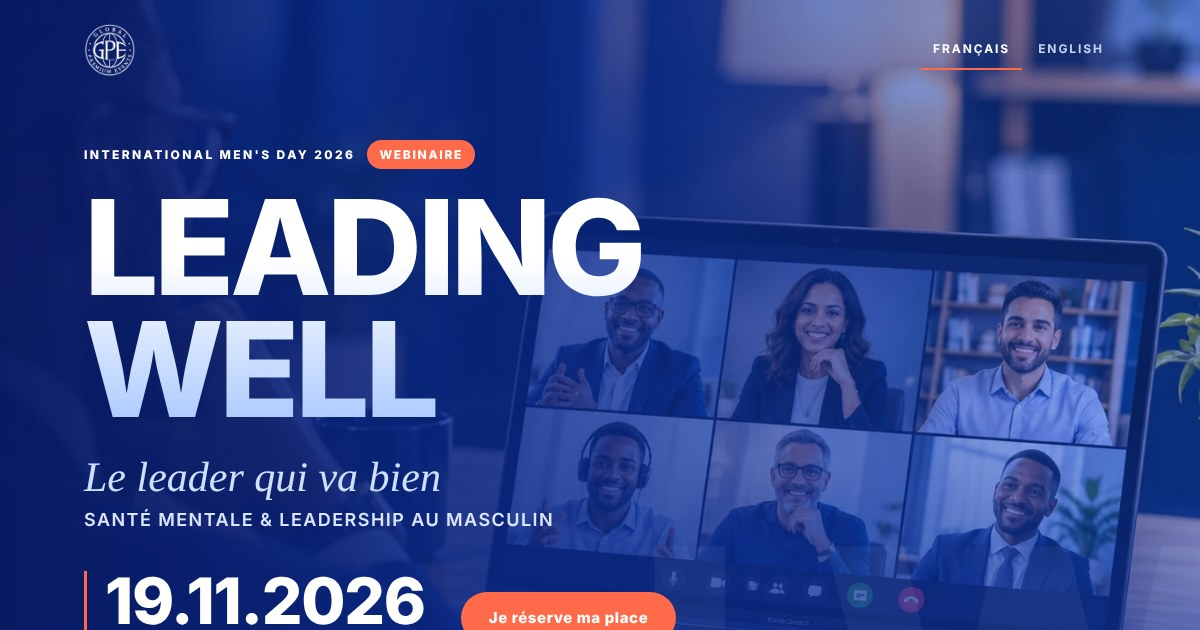
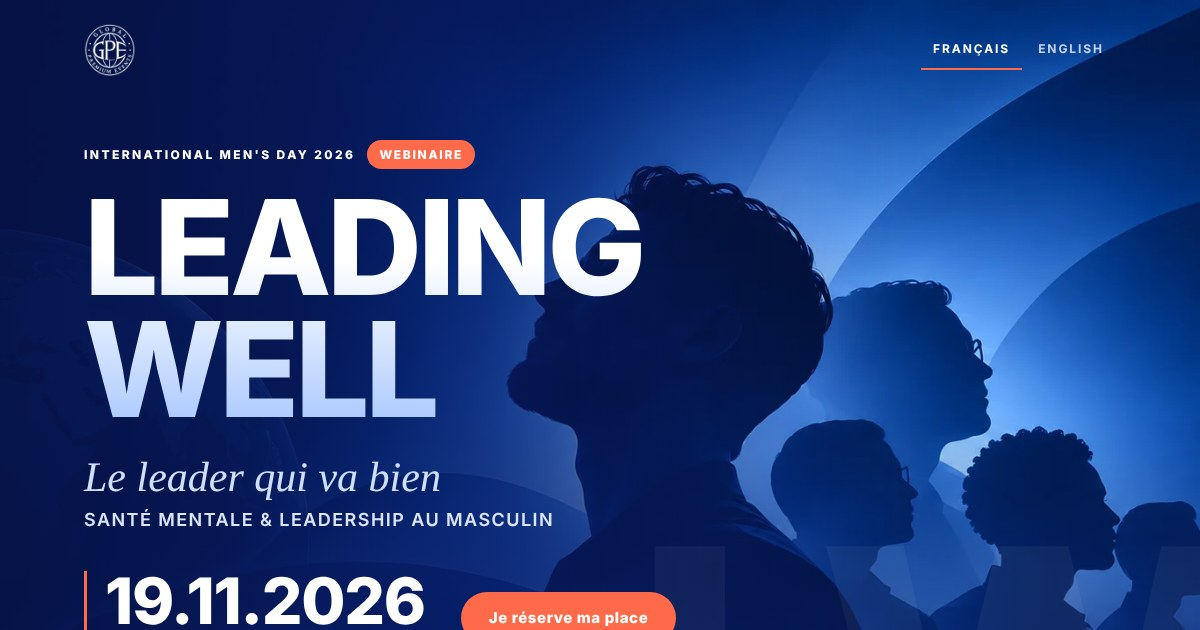
Leading Well: silhouette hero image
Claude-Session: https://claude.ai/code/session_019nB8R7NWGDf7U7bQvrgrAx

diff --git a/leading-well/en/index.html b/leading-well/en/index.html
@@ -141,10 +141,10 @@ footer p{margin:0;color:var(--soft);font-size:14px}
 /* === Vivid blue cover style === */
 :root{--navy:#0A1F66;--navy-2:#08185A;--line:rgba(156,194,255,.24)}
 body{background:var(--navy)}
-header.hero{min-height:min(92vh,860px);display:flex;flex-direction:column;padding-block:24px 64px;background:#0A2A8C url('/leading-well/hero.webp') 70% center/cover no-repeat;border-bottom:0}
+header.hero{min-height:min(92vh,860px);display:flex;flex-direction:column;padding-block:24px 64px;background:#0A2A8C url('/leading-well/hero.webp?v=2') right center/cover no-repeat;border-bottom:0}
 header.hero .bg{display:none}
-header.hero::before{content:"";position:absolute;inset:0;background:linear-gradient(90deg,rgba(8,26,100,.96) 0%,rgba(10,42,140,.82) 42%,rgba(20,90,255,.35) 100%),linear-gradient(0deg,rgba(8,24,90,.95) 0%,rgba(8,24,90,0) 50%)}
-header.hero::after{content:"LW";position:absolute;right:-2vw;bottom:-6vw;font:800 clamp(220px,34vw,520px)/1 var(--sans);letter-spacing:-.06em;color:rgba(255,255,255,.05);pointer-events:none}
+header.hero::before{content:"";position:absolute;inset:0;background:linear-gradient(90deg,rgba(6,18,70,.92) 0%,rgba(8,26,100,.7) 40%,rgba(8,26,100,0) 75%),linear-gradient(0deg,rgba(8,24,90,.95) 0%,rgba(8,24,90,0) 50%)}
+header.hero::after{display:none;content:"";position:absolute;right:-2vw;bottom:-6vw;font:800 clamp(220px,34vw,520px)/1 var(--sans);letter-spacing:-.06em;color:rgba(255,255,255,.05);pointer-events:none}
 .hero .wrap{display:flex;flex-direction:column;flex:1}
 .kicker{margin-top:auto;padding-top:64px}
 h1{font-family:var(--sans);font-weight:800;text-transform:uppercase;font-size:clamp(56px,11vw,140px);line-height:.92;letter-spacing:-.035em;background:linear-gradient(180deg,#FFFFFF 30%,#A9C8FF 100%);-webkit-background-clip:text;background-clip:text;color:transparent}
@@ -156,7 +156,7 @@ h2{font-family:var(--sans);font-weight:800;letter-spacing:-.02em}
 .sec-num{font-family:var(--sans);font-weight:800}
 .fact b,.prog b{font-family:var(--sans);font-weight:800}
 section:nth-of-type(even){background:linear-gradient(180deg,#0B2378,#08185A)}
-@media (max-width:720px){header.hero{background-position:62% center}header.hero::after{display:none}}
+@media (max-width:720px){header.hero{background-position:66% center}header.hero::after{display:none}}
 </style>
 </head>
 <body>

diff --git a/leading-well/index.html b/leading-well/index.html
@@ -141,10 +141,10 @@ footer p{margin:0;color:var(--soft);font-size:14px}
 /* === Vivid blue cover style === */
 :root{--navy:#0A1F66;--navy-2:#08185A;--line:rgba(156,194,255,.24)}
 body{background:var(--navy)}
-header.hero{min-height:min(92vh,860px);display:flex;flex-direction:column;padding-block:24px 64px;background:#0A2A8C url('/leading-well/hero.webp') 70% center/cover no-repeat;border-bottom:0}
+header.hero{min-height:min(92vh,860px);display:flex;flex-direction:column;padding-block:24px 64px;background:#0A2A8C url('/leading-well/hero.webp?v=2') right center/cover no-repeat;border-bottom:0}
 header.hero .bg{display:none}
-header.hero::before{content:"";position:absolute;inset:0;background:linear-gradient(90deg,rgba(8,26,100,.96) 0%,rgba(10,42,140,.82) 42%,rgba(20,90,255,.35) 100%),linear-gradient(0deg,rgba(8,24,90,.95) 0%,rgba(8,24,90,0) 50%)}
-header.hero::after{content:"LW";position:absolute;right:-2vw;bottom:-6vw;font:800 clamp(220px,34vw,520px)/1 var(--sans);letter-spacing:-.06em;color:rgba(255,255,255,.05);pointer-events:none}
+header.hero::before{content:"";position:absolute;inset:0;background:linear-gradient(90deg,rgba(6,18,70,.92) 0%,rgba(8,26,100,.7) 40%,rgba(8,26,100,0) 75%),linear-gradient(0deg,rgba(8,24,90,.95) 0%,rgba(8,24,90,0) 50%)}
+header.hero::after{display:none;content:"";position:absolute;right:-2vw;bottom:-6vw;font:800 clamp(220px,34vw,520px)/1 var(--sans);letter-spacing:-.06em;color:rgba(255,255,255,.05);pointer-events:none}
 .hero .wrap{display:flex;flex-direction:column;flex:1}
 .kicker{margin-top:auto;padding-top:64px}
 h1{font-family:var(--sans);font-weight:800;text-transform:uppercase;font-size:clamp(56px,11vw,140px);line-height:.92;letter-spacing:-.035em;background:linear-gradient(180deg,#FFFFFF 30%,#A9C8FF 100%);-webkit-background-clip:text;background-clip:text;color:transparent}
@@ -156,7 +156,7 @@ h2{font-family:var(--sans);font-weight:800;letter-spacing:-.02em}
 .sec-num{font-family:var(--sans);font-weight:800}
 .fact b,.prog b{font-family:var(--sans);font-weight:800}
 section:nth-of-type(even){background:linear-gradient(180deg,#0B2378,#08185A)}
-@media (max-width:720px){header.hero{background-position:62% center}header.hero::after{display:none}}
+@media (max-width:720px){header.hero{background-position:66% center}header.hero::after{display:none}}
 </style>
 </head>
 <body>
